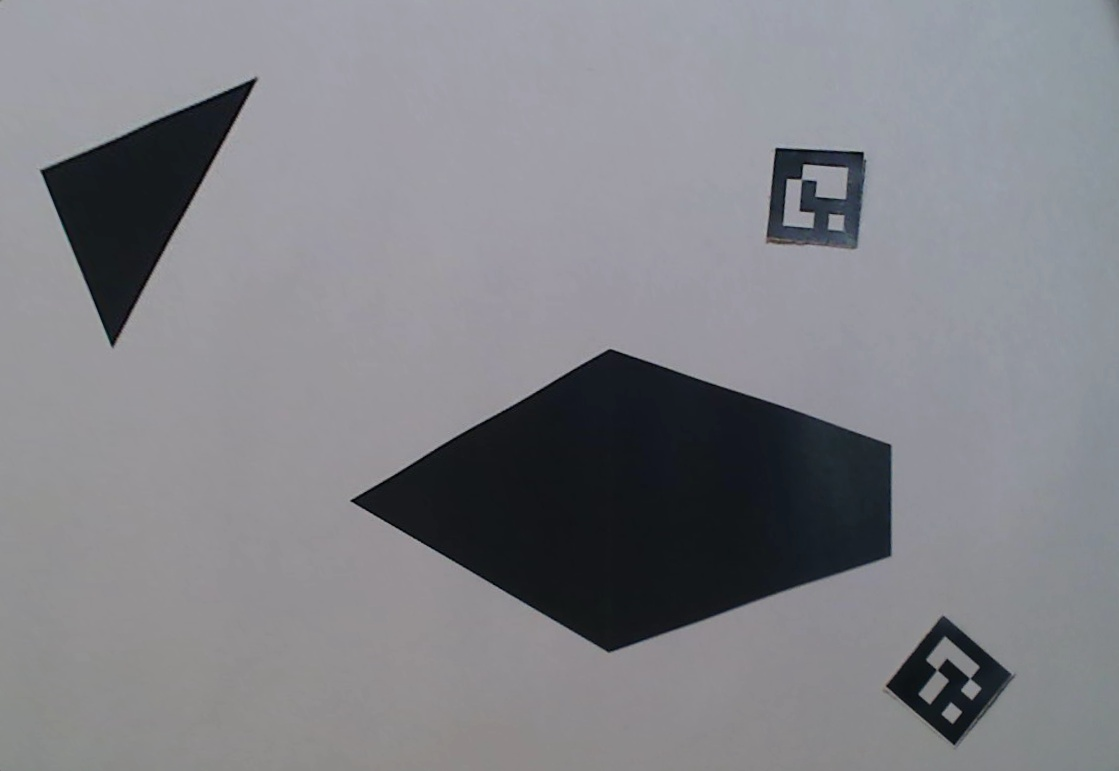
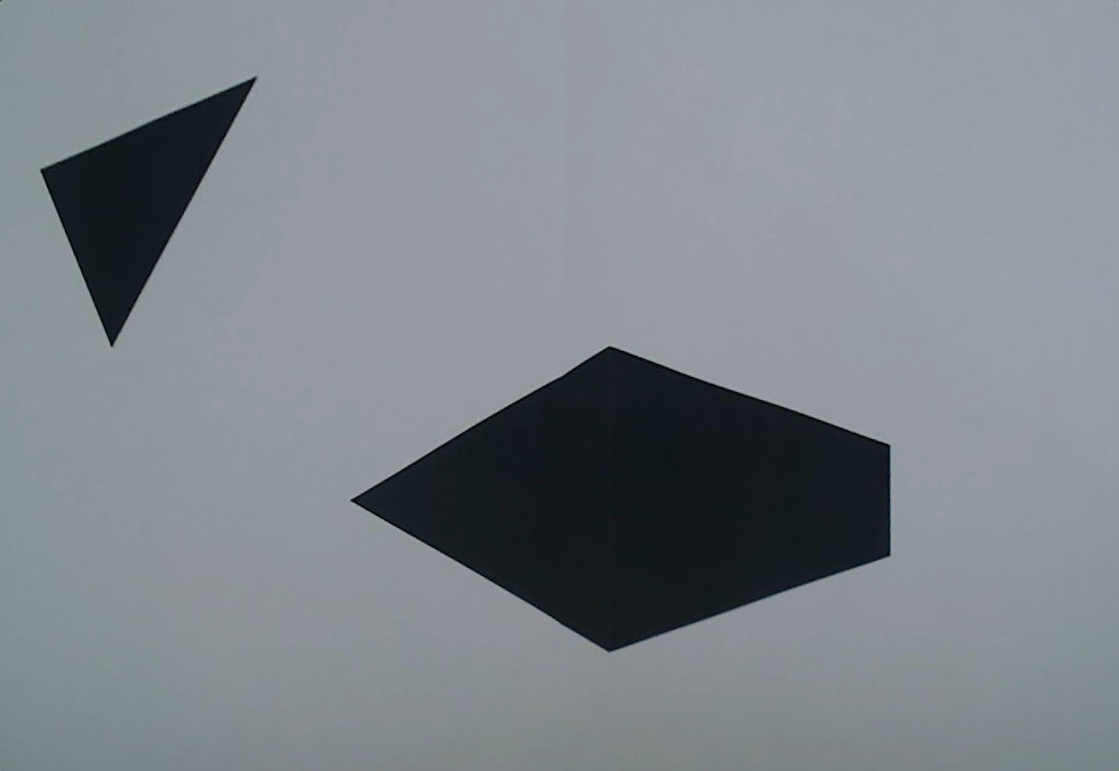
maj de la main loop

diff --git a/src/main.py b/src/main.py
@@ -52,7 +52,7 @@ async def main():
         while goal_not_reached:
             # sensing
             pos_measure = carte.get_thymio_position() # pos x,y and angle in radians
-            carte.dessin_point((cte.ENV_LARGEUR)/2,(cte.ENV_LONGUEUR)/2)
+            carte.dessin_point(pos_measure[0],pos_measure[1], pos_measure[2])
             carte.afficher_video()
             print(pos_measure)
             await client.sleep(0.05)
